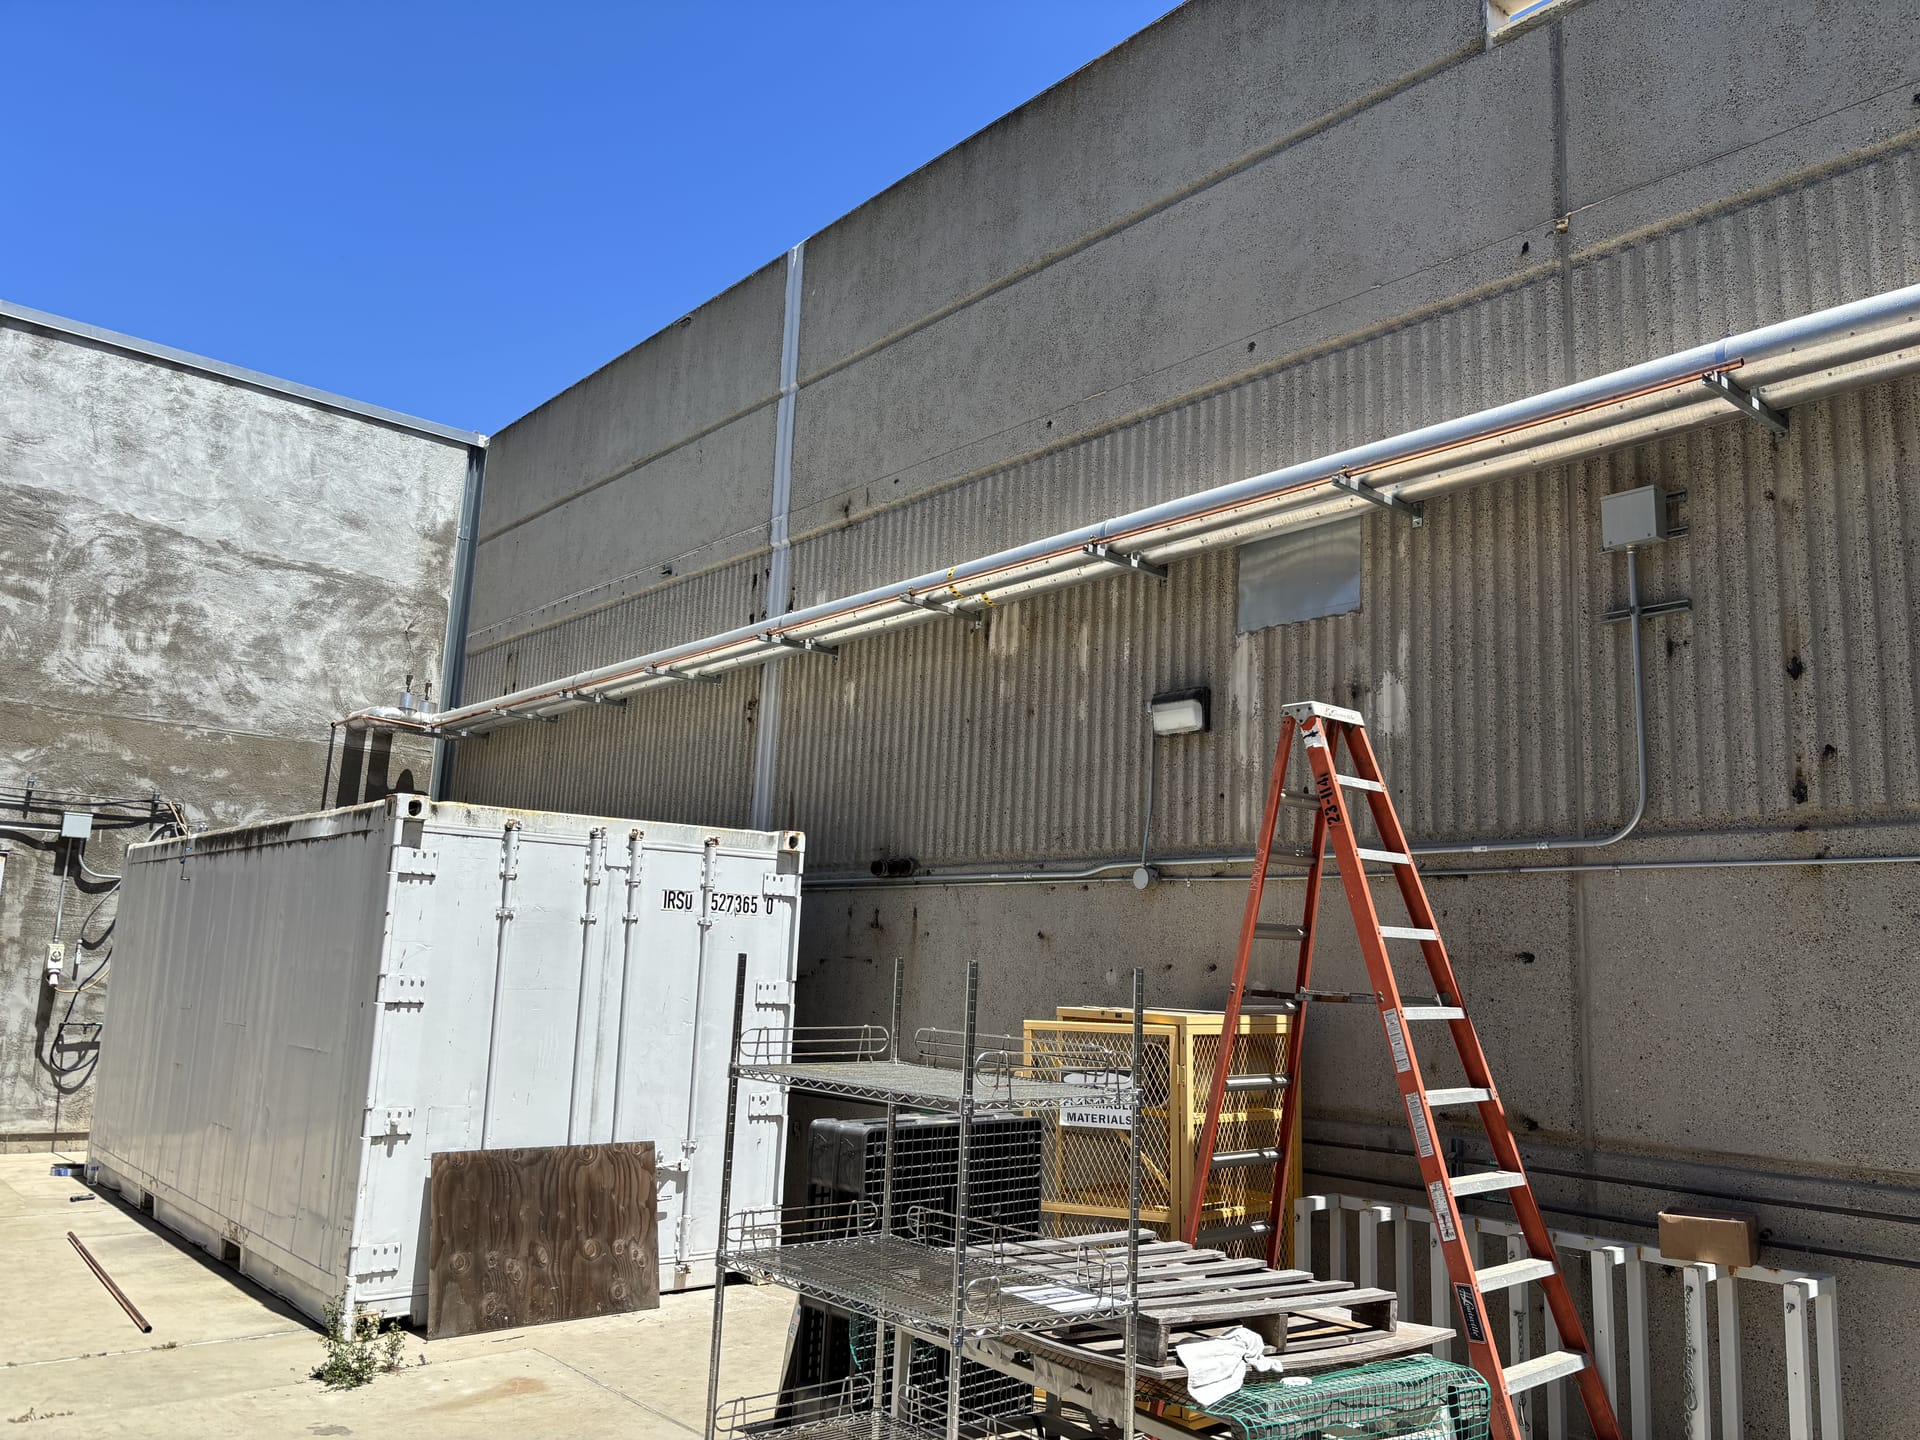
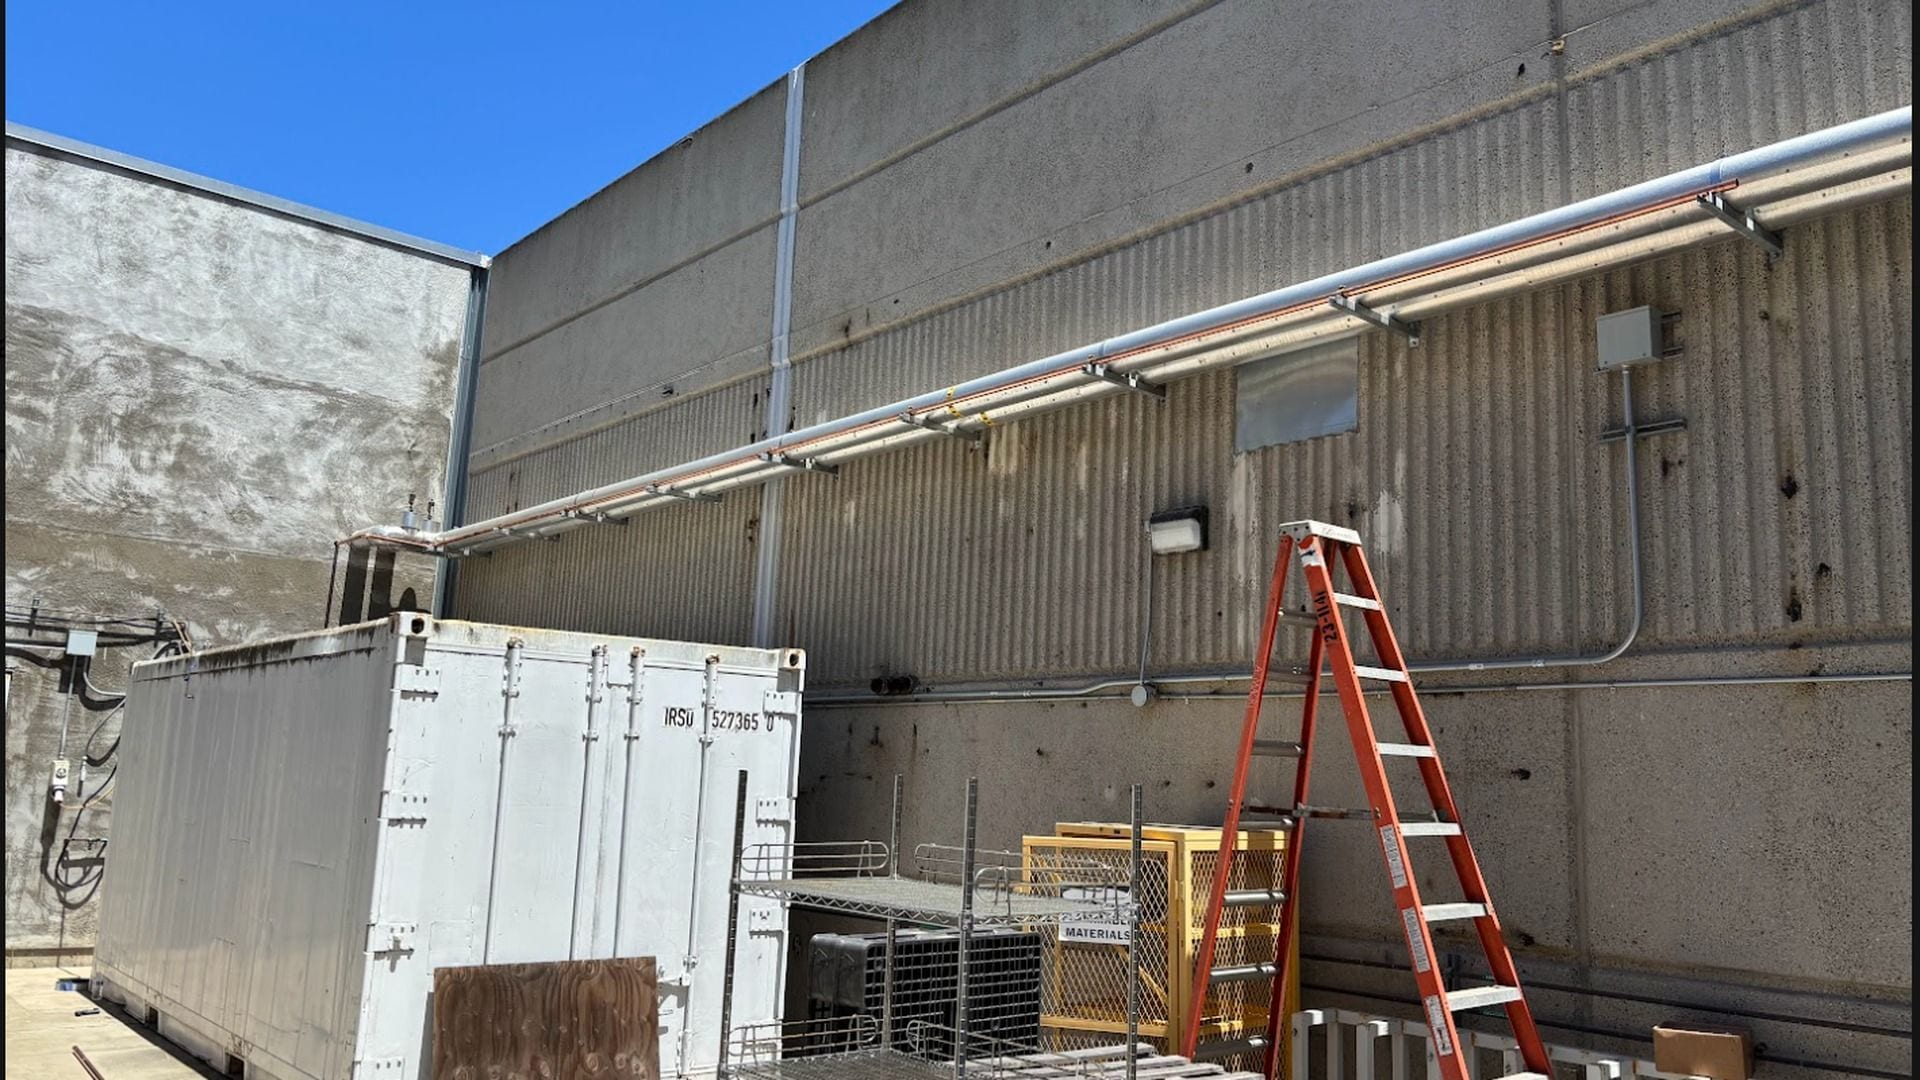
Replace 3 carousel photos with true 16:9 versions, revert to full-bleed crop
Swap the exterior wall, ceiling piping, and service truck photos for
client-supplied 16:9 versions that natively match the carousel's frame,
so they fill the screen edge-to-edge without cropping. Revert the
photo slides to plain object-cover (drop the blurred-backdrop
treatment) since the new images no longer need it.

Also remove the "More project photos coming soon" line from the
Gallery page.

diff --git a/src/components/home/HeroCarousel.jsx b/src/components/home/HeroCarousel.jsx
@@ -59,24 +59,12 @@ export default function HeroCarousel() {
                   />
                 </div>
               ) : (
-                <div className="relative w-full h-full bg-navy overflow-hidden">
-                  {/* Blurred, scaled-up backdrop so the frame still reads as full-bleed */}
-                  <img
-                    src={slide.src}
-                    alt=""
-                    aria-hidden="true"
-                    className="absolute inset-0 w-full h-full object-cover scale-110 blur-2xl opacity-40"
-                    loading={i <= 1 ? 'eager' : 'lazy'}
-                  />
-                  <div className="absolute inset-0 bg-navy/40" />
-                  {/* Full, uncropped photo on top */}
-                  <img
-                    src={slide.src}
-                    alt={slide.alt}
-                    className="relative z-10 w-full h-full object-contain"
-                    loading={i <= 1 ? 'eager' : 'lazy'}
-                  />
-                </div>
+                <img
+                  src={slide.src}
+                  alt={slide.alt}
+                  className="w-full h-full object-cover"
+                  loading={i <= 1 ? 'eager' : 'lazy'}
+                />
               )}
             </CarouselItem>
           ))}

diff --git a/src/pages/Gallery.jsx b/src/pages/Gallery.jsx
@@ -54,12 +54,6 @@ export default function Gallery() {
               <GalleryImage key={i} item={item} index={i} />
             ))}
           </div>
-
-          <div className="mt-12 text-center">
-            <p className="text-charcoal/50 text-sm italic mb-2">
-              More project photos coming soon as Heritage Bay grows its portfolio.
-            </p>
-          </div>
         </div>
       </section>
 
